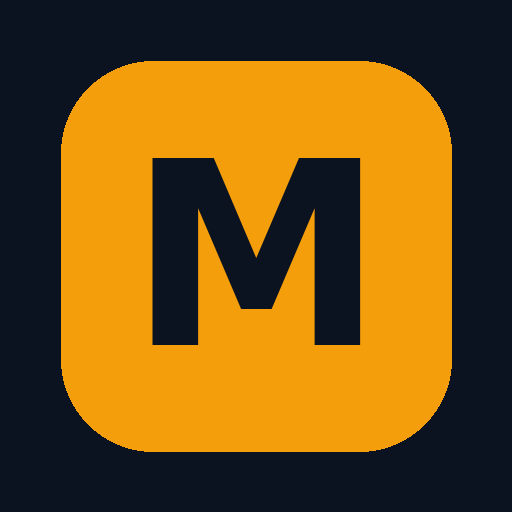
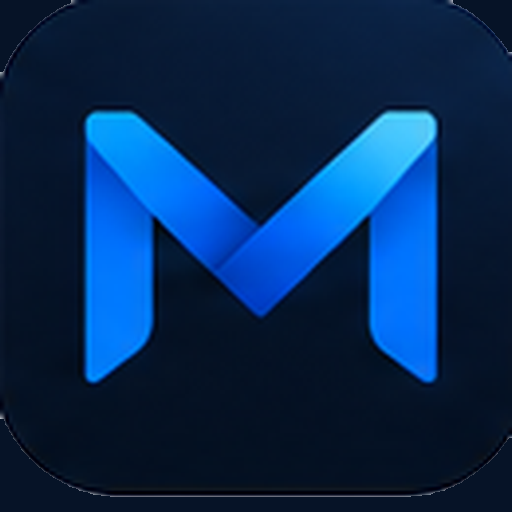
Add files via upload

diff --git a/malvia/src/components/SystemDeploymentGuideModal.tsx b/malvia/src/components/SystemDeploymentGuideModal.tsx
@@ -62,7 +62,7 @@ export const SystemDeploymentGuideModal: React.FC<SystemDeploymentGuideModalProp
                 </span>
               </div>
               <p className="text-xs text-neutral-400">
-                كيفية تثبيت مالفيا MALVIA على الكمبيوتر والموبايل، وتوزيع المفاتيح للمحلات والتحكم بالصلاحيات
+                كيفية تثبيت MALVIA على الكمبيوتر والموبايل، وتوزيع المفاتيح للمحلات والتحكم بالصلاحيات
               </p>
             </div>
           </div>
@@ -203,7 +203,7 @@ export const SystemDeploymentGuideModal: React.FC<SystemDeploymentGuideModalProp
               <div className="p-4 rounded-2xl bg-[#131B2A] border border-emerald-500/30 flex items-start gap-3">
                 <Monitor className="w-6 h-6 text-emerald-400 flex-shrink-0 mt-0.5" />
                 <div className="space-y-1 text-xs">
-                  <h4 className="font-bold text-white text-sm">تثبيت مالفيا MALVIA على أجهزة الكمبيوتر واللابتوب (Windows & Mac)</h4>
+                  <h4 className="font-bold text-white text-sm">تثبيت MALVIA على أجهزة الكمبيوتر واللابتوب (Windows & Mac)</h4>
                   <p className="text-neutral-300 leading-relaxed">
                     يتم تثبيت التطبيق كبرنامج مستقل (Desktop App) بدون أي برامج خارجية، ويظهر كأيقونة على سطح المكتب وشريط المهام (Taskbar)، ويعمل بكامل ال وبسرعة فائقة.
                   </p>
@@ -299,7 +299,7 @@ export const SystemDeploymentGuideModal: React.FC<SystemDeploymentGuideModalProp
                     <li>افتح الرابط في متصفح Google Chrome.</li>
                     <li>اضغط على <strong>زر القائمة (ثلاث نقاط رأسية)</strong> أعلى زاوية المتصفح.</li>
                     <li>اختر <strong>"تثبيت التطبيق" (Install App)</strong> أو <strong>"الإضافة لل الرئيسية"</strong>.</li>
-                    <li>اضغط "تثبيت"؛ ستظهر أيقونة مالفيا الذهبية بين تطبيقات هاتفك.</li>
+                    <li>اضغط "تثبيت"؛ ستظهر أيقونة MALVIA الذهبية بين تطبيقات هاتفك.</li>
                     <li>يفتح في وضع ملء ال بدون شريط روابط المتصفح.</li>
                   </ol>
                 </div>
@@ -388,7 +388,7 @@ export const SystemDeploymentGuideModal: React.FC<SystemDeploymentGuideModalProp
         <div className="p-4 bg-[#0C101A] border-t border-neutral-800 flex flex-col sm:flex-row items-center justify-between gap-3 text-xs">
           <div className="text-neutral-400 flex items-center gap-2">
             <ShieldCheck className="w-4 h-4 text-amber-400" />
-            <span>نظام مالفيا MALVIA Cloud ERP - الإصدار المؤسسي متعدد الفروع والمحلات</span>
+            <span>نظام MALVIA Cloud ERP - الإصدار المؤسسي متعدد الفروع والمحلات</span>
           </div>
 
           <div className="flex items-center gap-2">

diff --git a/malvia/src/components/PWAInstallButton.tsx b/malvia/src/components/PWAInstallButton.tsx
@@ -32,7 +32,7 @@ export const PWAInstallButton: React.FC<PWAInstallButtonProps> = ({
     return (
       <div className="hidden lg:flex items-center gap-1.5 px-3 py-1.5 rounded-full bg-emerald-500/10 border border-emerald-500/30 text-[11px] font-bold text-emerald-400">
         <span className="w-2 h-2 rounded-full bg-emerald-400 animate-ping" />
-        <span>تطبيق مالفيا مُثبّت</span>
+        <span>تطبيق MALVIA مُثبّت</span>
       </div>
     );
   }
@@ -49,7 +49,7 @@ export const PWAInstallButton: React.FC<PWAInstallButtonProps> = ({
             }
           }}
           className={`flex items-center gap-1.5 px-3 py-1.5 rounded-xl bg-gradient-to-r from-amber-500/20 to-orange-500/20 hover:from-amber-500/30 hover:to-orange-500/30 border border-amber-500/40 text-amber-300 text-xs font-bold transition-all shadow-sm active:scale-95 ${className}`}
-          title="تثبيت تطبيق مالفيا على الموبايل والكمبيوتر"
+          title="تثبيت تطبيق MALVIA على الموبايل والكمبيوتر"
         >
           <Download className="w-3.5 h-3.5 animate-bounce" />
           <span className="hidden sm:inline">تنزيل التطبيق</span>
@@ -108,7 +108,7 @@ export const PWAInstallButton: React.FC<PWAInstallButtonProps> = ({
               <div className="p-4 rounded-2xl bg-gradient-to-r from-amber-500/20 via-[#1A2234] to-emerald-500/20 border border-amber-500/40 flex items-center justify-between gap-3">
                 <div>
                   <span className="text-sm font-bold text-white block">متصفحك يدعم التثبيت الفوري بنقرة واحدة!</span>
-                  <span className="text-xs text-neutral-400">سيتم إضافة أيقونة مالفيا على هاتفك أو سطح المكتب</span>
+                  <span className="text-xs text-neutral-400">سيتم إضافة أيقونة MALVIA على هاتفك أو سطح المكتب</span>
                 </div>
                 <button
                   onClick={() => {
@@ -154,7 +154,7 @@ export const PWAInstallButton: React.FC<PWAInstallButtonProps> = ({
                   <span>3. على كمبيوتر المحل ولابتوب الإدارة (Chrome / Edge):</span>
                 </div>
                 <p className="text-neutral-300 pr-6 leading-relaxed">
-                  ستجد أيقونة تثبيت صغيرة <Download className="w-3.5 h-3.5 inline mx-1 text-emerald-400" /> في شريط العنوان أعلى المتصفح، أو من قائمة المتصفح اختر <strong>"تثبيت مالفيا MALVIA كتطبيق سطح مكتب"</strong>.
+                  ستجد أيقونة تثبيت صغيرة <Download className="w-3.5 h-3.5 inline mx-1 text-emerald-400" /> في شريط العنوان أعلى المتصفح، أو من قائمة المتصفح اختر <strong>"تثبيت MALVIA كتطبيق سطح مكتب"</strong>.
                 </p>
               </div>
             </div>

diff --git a/malvia/src/components/ShopLoginView.tsx b/malvia/src/components/ShopLoginView.tsx
@@ -129,17 +129,11 @@ export const ShopLoginView: React.FC<ShopLoginViewProps> = ({
 
       <header className="max-w-5xl w-full mx-auto flex items-center justify-between z-10">
         <div className="flex items-center gap-3">
-          <div className="w-11 h-11 rounded-2xl bg-gradient-to-tr from-amber-600 via-amber-500 to-yellow-400 p-0.5 shadow-lg shadow-amber-500/20 flex items-center justify-center">
-            <div className="w-full h-full rounded-[14px] bg-[#0E121B] flex items-center justify-center text-amber-400">
-              <CarFront className="w-6 h-6" />
-            </div>
-          </div>
           <div>
-            <h1 className="text-base font-black text-white tracking-wide flex items-center gap-2">
-              <span className="text-amber-400 font-mono tracking-wider">MALVIA</span>
-              <span className="text-neutral-400 text-xs font-normal">| نظام إدارة قطع الغيار ونقاط البيع</span>
+            <h1 className="text-sm sm:text-base font-black text-white tracking-wide">
+              نظام إدارة قطع الغيار ونقاط البيع
             </h1>
-            <p className="text-[11px] text-neutral-400">منظومة سحابية مستقلة تعمل على أي جهاز دون ربط بحساب جوجل</p>
+            <p className="text-[11px] text-neutral-400">منظومة سحابية تعمل على الكمبيوتر والموبايل وبياناتها متزامنة</p>
           </div>
         </div>
 
@@ -163,6 +157,7 @@ export const ShopLoginView: React.FC<ShopLoginViewProps> = ({
       <main className="max-w-md w-full mx-auto my-auto py-6 z-10">
         <div className="bg-[#111625]/95 backdrop-blur-xl border border-neutral-800 rounded-3xl p-6 sm:p-8 shadow-2xl space-y-5 relative">
           <div className="text-center space-y-1.5">
+            <img src="/logo-login.png" alt="MALVIA" className="mx-auto w-56 sm:w-64 h-auto mb-2" draggable={false} />
             <div className="inline-flex items-center gap-1.5 px-3 py-1 rounded-full bg-emerald-500/10 border border-emerald-500/30 text-emerald-400 text-xs font-bold mb-1">
               <ShieldCheck className="w-3.5 h-3.5" />
               <span>نظام تجاري مستقل 100% — جاهز للبيع والتشغيل الفوري</span>
@@ -389,7 +384,7 @@ export const ShopLoginView: React.FC<ShopLoginViewProps> = ({
         <div className="flex items-center gap-2">
           <span>MALVIA Cloud ERP v2.4</span>
           <span>•</span>
-          <span>جميع الحقوق محفوظة لنظام مالفيا السحابي</span>
+          <span>جميع الحقوق محفوظة لنظام MALVIA السحابي</span>
         </div>
 
         <div className="flex items-center gap-4">

diff --git a/malvia/src/components/InvoiceDetailModal.tsx b/malvia/src/components/InvoiceDetailModal.tsx
@@ -72,7 +72,7 @@ export const InvoiceDetailModal: React.FC<InvoiceDetailModalProps> = ({
 
   const handleShareWhatsApp = () => {
     const text = encodeURIComponent(
-      `مرحباً ${invoice.customerName}،\nإليك تفاصيل فاتورتك من نظام مالفيا لقطع غيار السيارات MALVIA:\nرقم الفاتورة: ${invoice.invoiceNumber}\nالتاريخ: ${invoice.date}\nالإجمالي: ${invoice.grandTotal.toFixed(2)} ج.م\nطريقة السداد: ${invoice.paymentMethod}\nشكراً لتعاملكم معنا!`
+      `مرحباً ${invoice.customerName}،\nإليك تفاصيل فاتورتك من نظام MALVIA لقطع غيار السيارات MALVIA:\nرقم الفاتورة: ${invoice.invoiceNumber}\nالتاريخ: ${invoice.date}\nالإجمالي: ${invoice.grandTotal.toFixed(2)} ج.م\nطريقة السداد: ${invoice.paymentMethod}\nشكراً لتعاملكم معنا!`
     );
     const phone = invoice.customerPhone ? invoice.customerPhone.replace(/[^0-9]/g, '') : '';
     const url = phone ? `https://wa.me/${phone}?text=${text}` : `https://wa.me/?text=${text}`;
@@ -146,11 +146,9 @@ export const InvoiceDetailModal: React.FC<InvoiceDetailModalProps> = ({
 
         <div ref={invoiceRef} className="p-2 bg-white">
           <div className="text-center space-y-2 border-b border-neutral-200 pb-4">
-            <div className="w-10 h-10 rounded-xl bg-neutral-900 text-amber-400 mx-auto flex items-center justify-center font-bold shadow-md">
-              <CarFront className="w-6 h-6" />
-            </div>
+            <img src="/logo-invoice.png" alt="MALVIA" className="h-20 w-auto mx-auto" />
             <h2 className="text-base font-black text-neutral-950">
-              مالفيا MALVIA لقطع غيار السيارات
+              MALVIA لقطع غيار السيارات
             </h2>
             <p className="text-[11px] text-neutral-600">
               فاتورة بيع ضريبية مبسطة وإذن صرف بضاعة
@@ -251,7 +249,7 @@ export const InvoiceDetailModal: React.FC<InvoiceDetailModalProps> = ({
 
           <div className="pt-4 flex flex-col items-center justify-center text-center">
             <p className="text-[10px] text-neutral-600 font-medium">
-              شكراً لتعاملكم مع مالفيا MALVIA · القطع الكهربائية غير قابلة للاسترجاع بعد التركيب
+              شكراً لتعاملكم مع MALVIA · القطع الكهربائية غير قابلة للاسترجاع بعد التركيب
             </p>
             <p className="text-[9px] text-neutral-500 mt-0.5">
               شارع دمشق، روكسي، مصر الجديدة، القاهرة - هاتف: 01009876543

diff --git a/malvia/index.html b/malvia/index.html
@@ -5,13 +5,15 @@
     <meta name="viewport" content="width=device-width, initial-scale=1.0, maximum-scale=1.0, user-scalable=no" />
     <link rel="manifest" href="/manifest.webmanifest" />
     <meta name="theme-color" content="#0b1220" />
-    <link rel="apple-touch-icon" href="/icon-192.png" />
+    <link rel="apple-touch-icon" href="/apple-touch-icon.png" />
+    <link rel="icon" type="image/png" sizes="32x32" href="/favicon-32.png" />
+    <link rel="icon" href="/favicon.ico" />
     <meta name="apple-mobile-web-app-capable" content="yes" />
     <meta name="mobile-web-app-capable" content="yes" />
-    <title>مالفيا موبايل | نظام إدارة قطع الغيار والمخزون ونقاط البيع السحابي</title>
-    <meta name="description" content="منظومة مالفيا المتكاملة لإدارة محلات قطع غيار السيارات، إدارة المخزون وتصحيح الأخطاء، حجز وبدائل الشاشات، استيراد وتصدير إكسيل، وإدارة المرتجعات." />
-    <meta property="og:title" content="مالفيا موبايل | نظام إدارة قطع الغيار والمخزون السحابي" />
-    <meta property="og:description" content="منظومة مالفيا المتكاملة لإدارة محلات قطع غيار السيارات، إدارة المخزون وتصحيح الأخطاء، حجز وبدائل الشاشات، استيراد وتصدير إكسيل، وإدارة المرتجعات." />
+    <title>MALVIA موبايل | نظام إدارة قطع الغيار والمخزون ونقاط البيع السحابي</title>
+    <meta name="description" content="منظومة MALVIA المتكاملة لإدارة محلات قطع غيار السيارات، إدارة المخزون وتصحيح الأخطاء، حجز وبدائل الشاشات، استيراد وتصدير إكسيل، وإدارة المرتجعات." />
+    <meta property="og:title" content="MALVIA موبايل | نظام إدارة قطع الغيار والمخزون السحابي" />
+    <meta property="og:description" content="منظومة MALVIA المتكاملة لإدارة محلات قطع غيار السيارات، إدارة المخزون وتصحيح الأخطاء، حجز وبدائل الشاشات، استيراد وتصدير إكسيل، وإدارة المرتجعات." />
     <meta property="og:type" content="website" />
     <meta name="twitter:card" content="summary_large_image" />
     <link rel="preconnect" href="https://fonts.googleapis.com">

diff --git a/malvia/src/data/autoPartsData.ts b/malvia/src/data/autoPartsData.ts
@@ -932,8 +932,8 @@ export const INITIAL_EMPLOYEES: Employee[] = [
 
 export const INITIAL_SHOP_SETTINGS: ShopSettings = {
   systemName: 'MALVIA',
-  shopName: 'مالفيا لقطع غيار السيارات والورش',
-  shopSubtitle: 'نظام مالفيا السحابي المتكامل لإدارة المخازن، حسابات الموردين، وفواتير البيع والخزينة',
+  shopName: 'MALVIA لقطع غيار السيارات والورش',
+  shopSubtitle: 'نظام MALVIA السحابي المتكامل لإدارة المخازن، حسابات الموردين، وفواتير البيع والخزينة',
   logoUrl: '',
   phone: '01009876543 / 02-24567890',
   email: 'info@malvia-parts.com',
@@ -942,7 +942,7 @@ export const INITIAL_SHOP_SETTINGS: ShopSettings = {
   taxId: '394-882-105',
   currency: 'جنيه مصري (ج.م)',
   vatRate: 14,
-  invoiceFooterNotes: 'شكراً لتعاملكم مع مالفيا MALVIA. القطع الكهربائية مشمولة بضمان التجربة. الاستبدال خلال 14 يوماً بالفاتورة الأصلية.',
+  invoiceFooterNotes: 'شكراً لتعاملكم مع MALVIA. القطع الكهربائية مشمولة بضمان التجربة. الاستبدال خلال 14 يوماً بالفاتورة الأصلية.',
   activeEmployeeId: 'emp-1'
 };
 
@@ -1010,7 +1010,7 @@ export const INITIAL_TENANT_LICENSES: TenantLicense[] = [
     id: 'lic-1',
     licenseKey: 'MALVIA-PRO-2026-EG01',
     tenantId: 'tenant-malvia-main',
-    companyName: 'مالفيا لقطع غيار السيارات ومستلزمات الورش (الفرع الرئيسي)',
+    companyName: 'MALVIA لقطع غيار السيارات ومستلزمات الورش (الفرع الرئيسي)',
     ownerName: 'المدير العام / مالك المحل',
     phone: '01009876543',
     city: 'القاهرة - روكسي',

diff --git a/malvia/src/components/SyncBadge.tsx b/malvia/src/components/SyncBadge.tsx
@@ -11,16 +11,23 @@ const LABELS: Record<SyncStatus, string> = {
 
 export const SyncBadge: React.FC = () => {
   const [status, setStatus] = useState<SyncStatus>('idle');
+  const [detail, setDetail] = useState('');
   useEffect(() => {
-    const h = (e: Event) => setStatus((e as CustomEvent).detail.status as SyncStatus);
+    const h = (e: Event) => { const d = (e as CustomEvent).detail; setStatus(d.status as SyncStatus); setDetail(d.detail || ''); };
     window.addEventListener(SYNC_STATUS_EVENT, h);
     return () => window.removeEventListener(SYNC_STATUS_EVENT, h);
   }, []);
   if (status === 'idle') return null;
+  let label = LABELS[status];
+  if (status === 'error') {
+    if (detail.includes('مفتاح غير مسجل')) label = 'هذا المحل غير مسجل في السحابة — أضفه من /owner ثم ادخل بمفتاحه';
+    else if (detail.includes('معلق')) label = 'ترخيص المحل معلق';
+    else if (detail) label = 'تعذرت المزامنة: ' + detail.slice(0, 80);
+  }
   const color = status === 'synced' ? 'text-emerald-400' : status === 'syncing' ? 'text-sky-400' : 'text-amber-400';
   return (
     <div className={`fixed bottom-20 lg:bottom-3 left-3 z-50 text-[11px] font-bold px-2.5 py-1 rounded-full bg-slate-900/90 border border-slate-700 ${color}`}>
-      {LABELS[status]}
+      {label}
     </div>
   );
 };

diff --git a/malvia/src/components/Navigation.tsx b/malvia/src/components/Navigation.tsx
@@ -100,12 +100,9 @@ export const Navigation: React.FC<NavigationProps> = ({
                 onClick={() => onTabChange('dashboard')}
                 className="flex items-center gap-2.5 cursor-pointer group"
               >
-                <div className="w-10 h-10 rounded-xl bg-gradient-to-tr from-amber-500 to-amber-600 flex items-center justify-center shadow-lg shadow-amber-500/20 group-hover:scale-105 transition">
-                  <CarFront className="w-6 h-6 text-slate-950 stroke-[2.5]" />
-                </div>
+                <img src="/logo-header.png" alt="MALVIA" className="h-9 w-auto group-hover:scale-105 transition" draggable={false} />
                 <div>
                   <div className="flex items-center gap-2">
-                    <span className="font-black text-lg text-amber-400 tracking-wide">مالفيا</span>
                     <span className="text-xs px-2 py-0.5 rounded-full bg-amber-400/10 text-amber-400 border border-amber-400/20 font-bold hidden sm:inline-block">
                       قطع الغيار الذكي
                     </span>

diff --git a/malvia/src/components/TenantActivationGateway.tsx b/malvia/src/components/TenantActivationGateway.tsx
@@ -78,11 +78,7 @@ export const TenantActivationGateway: React.FC<TenantActivationGatewayProps> = (
         <div className="absolute -bottom-24 -left-24 w-48 h-48 bg-blue-500/10 rounded-full blur-3xl pointer-events-none" />
 
         <div className="text-center space-y-2">
-          <div className="w-16 h-16 rounded-2xl bg-gradient-to-tr from-amber-600 via-amber-500 to-yellow-400 p-0.5 mx-auto shadow-lg shadow-amber-500/20 flex items-center justify-center">
-            <div className="w-full h-full rounded-[14px] bg-[#0E121B] flex items-center justify-center text-amber-400">
-              <CarFront className="w-9 h-9" />
-            </div>
-          </div>
+          <img src="/logo-login.png" alt="MALVIA" className="mx-auto w-52 h-auto" draggable={false} />
 
           <h2 className="text-xl sm:text-2xl font-black text-white tracking-wide">
             بوابة تفعيل تراخيص محلات <span className="text-amber-400 font-mono">MALVIA</span>

diff --git a/malvia/src/components/FinanceView.tsx b/malvia/src/components/FinanceView.tsx
@@ -1437,7 +1437,7 @@ export const FinanceView: React.FC<FinanceViewProps> = ({
                 <div>
                   <h3 className="text-base font-black text-white">تقرير القوائم المالية وحقوق الملكية ورأس المال</h3>
                   <p className="text-xs text-neutral-400">
-                    مركز مالفيا لقطع غيار السيارات | س.ت: 104928-القاهرة | الرقم الضريبي: 394-882-105
+                    مركز MALVIA لقطع غيار السيارات | س.ت: 104928-القاهرة | الرقم الضريبي: 394-882-105
                   </p>
                 </div>
               </div>

diff --git a/malvia/src/services/aiVoiceService.ts b/malvia/src/services/aiVoiceService.ts
@@ -222,7 +222,7 @@ function getClientFallbackResult(command: string, parts: AutoPart[], customers: 
 
   return {
     action: 'GENERAL_ANSWER',
-    spokenFeedback: 'أهلاً بك في مالفيا MALVIA. يمكنك القول: "بعت تيل تويوتا"، "جرد فلتر الزيت"، "سدد 5000 للمورد الأهرام"، أو "سجل مصروف 200 كهرباء".',
+    spokenFeedback: 'أهلاً بك في MALVIA. يمكنك القول: "بعت تيل تويوتا"، "جرد فلتر الزيت"، "سدد 5000 للمورد الأهرام"، أو "سجل مصروف 200 كهرباء".',
     timestamp: time,
   };
 }

diff --git a/malvia/src/services/tenantService.ts b/malvia/src/services/tenantService.ts
@@ -159,7 +159,7 @@ export function loadTenantStoreData(tenant: TenantLicense) {
   const tenantSettings: ShopSettings = {
     ...INITIAL_SHOP_SETTINGS,
     shopName: tenant.companyName,
-    shopSubtitle: `نظام مالفيا السحابي المتكامل لإدارة قطع الغيار والورش - فرع ${tenant.city}`,
+    shopSubtitle: `نظام MALVIA السحابي المتكامل لإدارة قطع الغيار والورش - فرع ${tenant.city}`,
     phone: tenant.phone,
     email: `contact@${tenant.tenantId}.com`,
     address: `${tenant.city} - مجمع قطع الغيار التجاري`,
